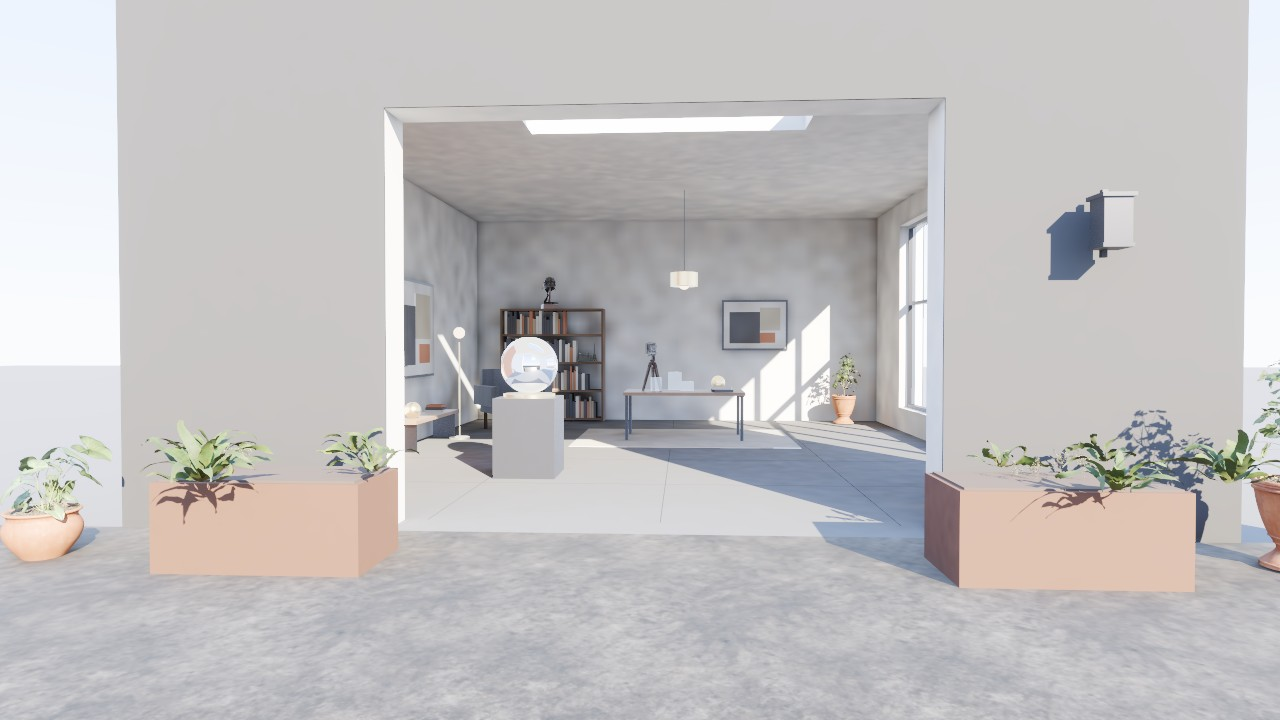
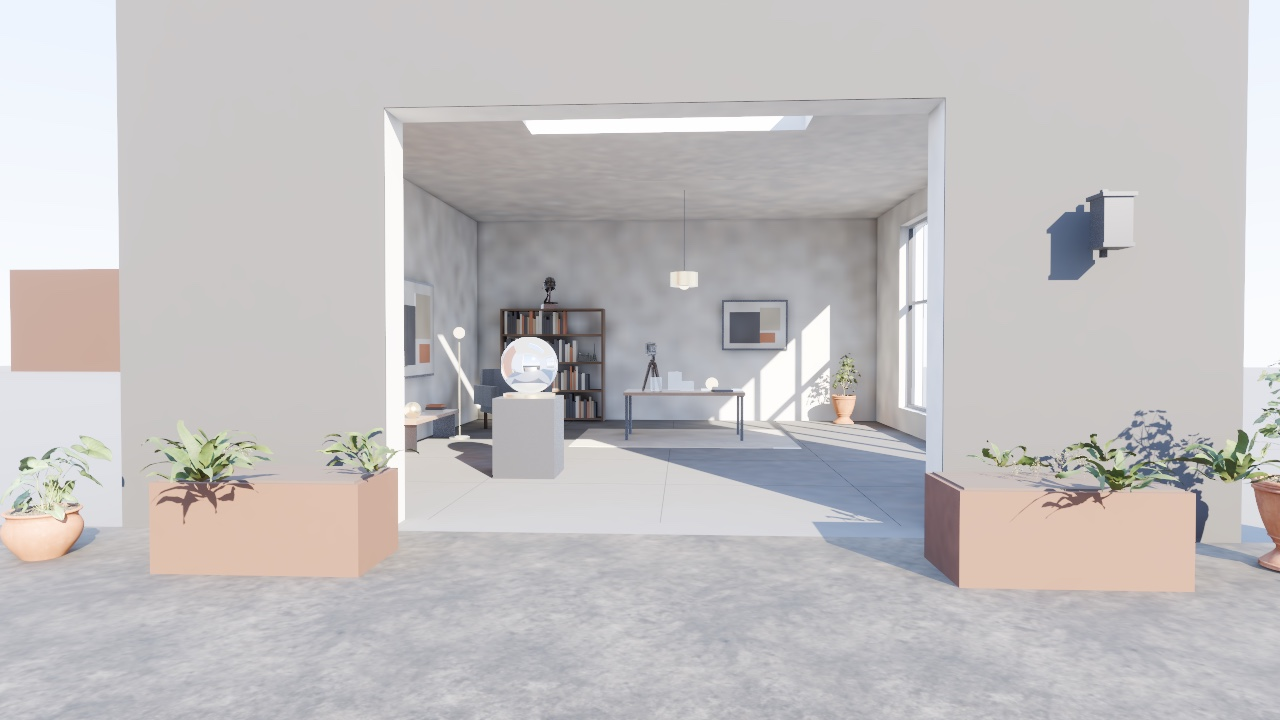
Atelier: two test stills, an emitter in a near-mirror and in chrome, and thin shadows beyond 40 m
glow: the table lamp is now a glowing globe on a polished nickel tray (roughness 0.07) beside a small chrome sphere (0.03), in the table's shade; its light moved to the globe's centre with the globe's radius. shadow: three 14 m masts (0.4, 0.2, 0.1 m across) 8 m in front of a dark boundary wall, 42 to 54 m from a new camera on the gravel west of the courtyard. Both are added to camera_clips.json as one-frame clips; the three comparison clips keep their cameras. Previews re-shot on Ara main f134c989f; FINDINGS 15 and 16 record what the two stills show today.

Changed region(s): [[0.0, 0.3667, 0.0938, 0.5194], [0.5312, 0.5194, 0.5625, 0.55]]

diff --git a/crates/ara-samples/src/build/atelier/kits.rs b/crates/ara-samples/src/build/atelier/kits.rs
@@ -63,6 +63,8 @@ pub fn shell(root: &Path, lock: &Lock) -> Result<String> {
     const GROUND: usize = 6;
     const SAND: usize = 7;
     const JOINT: usize = 8;
+    const BOUNDARY: usize = 9;
+    const MAST: usize = 10;
     let mut k = Kit::new(vec![
         // Mid-grey polished concrete in large tiles, darker than the walls so the sun patches
         // keep their shape instead of clipping; the joints are thin dark strips.
@@ -75,6 +77,11 @@ pub fn shell(root: &Path, lock: &Lock) -> Result<String> {
         Material::flat("dark gravel", [0.2, 0.19, 0.18], 0.95, 0.0),
         Material::flat("charcoal render", [0.065, 0.062, 0.06], 0.9, 0.0),
         Material::flat("floor joint", [0.05, 0.05, 0.05], 0.8, 0.0),
+        // Very dark for the same reason as the render: the exposure is the room's, about
+        // five stops under the sun out here, so a paler wall clips and a shadow on it
+        // cannot be read. A deep rust, the planters' colour at half its value.
+        Material::flat("boundary wall", [0.06, 0.025, 0.014], 0.9, 0.0),
+        Material::flat("mast paint", [0.012, 0.012, 0.013], 0.6, 0.0),
     ]);
     let v = Vec3::new;
     let stone_m = meters(lock, "concrete_floor_02");
@@ -232,11 +239,33 @@ pub fn shell(root: &Path, lock: &Lock) -> Result<String> {
     ] {
         slab(&mut k, SAND, a, b, Vec2::ONE);
     }
+    // The long-shadow test, south-west of the building: three 14 m masts of 0.4, 0.2 and
+    // 0.1 m diameter stand 8 m in front of a 7 m boundary wall that faces the sun. Each
+    // mast's shadow crosses the gravel and climbs the wall 4.6 m to its west, as a stripe
+    // 0.46, 0.23 and 0.12 m wide. From the `shadow` camera the masts are 42 to 44 m away
+    // and their shadows on the wall 50 to 54 m.
+    slab(
+        &mut k,
+        BOUNDARY,
+        v(-46.0, -0.31, -44.5),
+        v(2.0, 6.7, -44.0),
+        Vec2::ONE,
+    );
+    for (x, radius) in [(-22.0, 0.2), (-16.0, 0.1), (-10.0, 0.05)] {
+        post(&mut k, MAST, v(x, -0.31, -36.0), radius, 14.0);
+    }
     k.write(root, lock, "atelier_shell")
 }
 
+/// The table's centre on the floor.
+pub const TABLE: Vec3 = Vec3::new(0.2, 0.0, -6.0);
+/// The table lamp's glowing globe, from `TABLE`: it rests on the nickel tray.
+pub const GLOBE: Vec3 = Vec3::new(0.45, 0.877, -0.03);
+const GLOBE_RADIUS: f32 = 0.1;
+
 /// The furniture and objects of the room: sculpture on its plinth, the table with
-/// glass and brass, the armchair, bookshelf, lamps, rug and the painting.
+/// glass, the glow group (globe, nickel tray, chrome sphere), the armchair, bookshelf,
+/// lamps, rug and the painting.
 pub fn furniture(root: &Path, lock: &Lock) -> Result<String> {
     const OAK: usize = 0;
     const WALNUT: usize = 1;
@@ -250,6 +279,7 @@ pub fn furniture(root: &Path, lock: &Lock) -> Result<String> {
     const RUG: usize = 9;
     const BOOKS: usize = 10;
     const TERRACOTTA_BOOK: usize = 13;
+    const NICKEL: usize = 17;
     let mut k = Kit::new(vec![
         Material::flat("dark oak", [0.2, 0.12, 0.07], 0.5, 0.0),
         Material::flat("walnut", [0.3, 0.18, 0.1], 0.4, 0.0),
@@ -268,6 +298,8 @@ pub fn furniture(root: &Path, lock: &Lock) -> Result<String> {
         Material::flat("canvas white", [0.85, 0.84, 0.8], 0.9, 0.0),
         Material::flat("canvas charcoal", [0.14, 0.14, 0.15], 0.85, 0.0),
         Material::flat("canvas oatmeal", [0.62, 0.55, 0.42], 0.85, 0.0),
+        // A near-mirror: just over the roughness under which a reflection is one ray.
+        Material::flat("polished nickel", [0.72, 0.7, 0.66], 0.07, 1.0),
     ]);
     let v = Vec3::new;
     // Sculpture: marble plinth, brass disc and a chrome sphere in the front sun patch.
@@ -276,7 +308,7 @@ pub fn furniture(root: &Path, lock: &Lock) -> Result<String> {
     post(&mut k, BRASS, s + v(0.0, 0.9, 0.0), 0.3, 0.04);
     k.sphere(CHROME, s + v(0.0, 1.27, 0.0), 0.33, 48, Vec2::ONE);
     // Table (walnut top on steel legs), rug beneath, objects on it.
-    let t = v(0.2, 0.0, -6.0);
+    let t = TABLE;
     block(&mut k, WALNUT, t + v(0.0, 0.74, 0.0), v(1.9, 0.05, 0.95));
     for (dx, dz) in [(-0.9, -0.42), (0.9, -0.42), (-0.9, 0.42), (0.9, 0.42)] {
         post(&mut k, STEEL, t + v(dx, 0.0, dz), 0.025, 0.74);
@@ -295,8 +327,17 @@ pub fn furniture(root: &Path, lock: &Lock) -> Result<String> {
             yaw,
         );
     }
-    post(&mut k, BRASS, t + v(0.55, 0.765, 0.0), 0.11, 0.02);
-    k.sphere(BRASS, t + v(0.55, 0.9, 0.0), 0.11, 32, Vec2::ONE);
+    // The glow group, in the table's shade: a glowing globe (the table lamp) on a polished
+    // nickel tray, with a small chrome sphere beside it. The tray shows the globe in a
+    // near-mirror and the sphere shows it in chrome; the `glow` camera frames the three.
+    block(
+        &mut k,
+        NICKEL,
+        t + v(0.605, 0.771, -0.13),
+        v(0.65, 0.012, 0.54),
+    );
+    k.sphere(BULB, t + GLOBE, GLOBE_RADIUS, 32, Vec2::ONE);
+    k.sphere(CHROME, t + v(0.47, 0.852, -0.29), 0.075, 32, Vec2::ONE);
     // Pendant over the table: cord, brass shade, bulb.
     post(&mut k, STEEL, v(t.x, 2.7, t.z), 0.006, 1.3);
     k.cylinder(

diff --git a/crates/ara-samples/src/build/atelier/mod.rs b/crates/ara-samples/src/build/atelier/mod.rs
@@ -5,10 +5,11 @@
 //! one idling mannequin; six local lights with explicit source sizes.
 //!
 //! Built to cross engines: one fixed exposure, physical light units, a gradient sky
-//! given as numbers, plain metallic-roughness glTF materials, and three camera clips
-//! as poses over time. The numbers live in the tables below and are written once to
-//! `compare/atelier.spec.json` and `compare/camera_clips.json`; the scene is built from
-//! the same tables, so the documents and the scene cannot drift.
+//! given as numbers, plain metallic-roughness glTF materials, and five camera clips
+//! (three comparison clips and two test stills) as poses over time. The numbers live in
+//! the tables below and are written once to `compare/atelier.spec.json` and
+//! `compare/camera_clips.json`; the scene is built from the same tables, so the documents
+//! and the scene cannot drift.
 //! Frame: Y up, right-handed, metres; cameras look along their local -Z (glTF).
 mod kits;
 
@@ -133,11 +134,12 @@ const LAMPS: [Lamp; 6] = [
     Lamp {
         id: "e_lcup",
         name: "Table lamp glow",
-        position: Vec3::new(0.75, 0.98, -6.0),
+        // The centre of the glowing globe on the table (`kits::TABLE + kits::GLOBE`).
+        position: Vec3::new(0.65, 0.877, -6.03),
         target: None,
         color: [1.0, 0.8, 0.55],
         lumens: 120.0,
-        radius: 0.03,
+        radius: 0.1,
         length: 0.0,
         range: 3.0,
         cone: None,
@@ -167,9 +169,11 @@ const fn key(t: f32, position: Vec3, target: Vec3, fov: f32, cut: bool) -> Pose 
     }
 }
 
-/// The three comparison clips: a still, a moving stretch and one hard cut. Positions
-/// interpolate linearly and rotations by slerp between keys, at 30 frames a second.
-const CLIPS: [(&str, &str, &[Pose]); 3] = [
+/// The comparison clips: a still, a moving stretch, one hard cut, and two test stills
+/// (`glow`: an emitter seen in a near-mirror and in chrome; `shadow`: thin shadows more
+/// than 40 m from the camera). Positions interpolate linearly and rotations by slerp
+/// between keys, at 30 frames a second.
+const CLIPS: [(&str, &str, &[Pose]); 5] = [
     (
         "still",
         "Interior from the doorway side: sun patches, sculpture, table, armchair.",
@@ -235,6 +239,28 @@ const CLIPS: [(&str, &str, &[Pose]); 3] = [
             ),
         ],
     ),
+    (
+        "glow",
+        "The table's end, in shade: a glowing globe on a polished nickel tray (roughness 0.07) beside a chrome sphere (0.03).",
+        &[key(
+            0.0,
+            Vec3::new(1.85, 1.3, -5.7),
+            Vec3::new(0.8, 0.8, -6.13),
+            34.0,
+            false,
+        )],
+    ),
+    (
+        "shadow",
+        "From the gravel west of the courtyard: three masts 42 to 44 m away and their shadows on the boundary wall at 50 to 54 m.",
+        &[key(
+            0.0,
+            Vec3::new(-8.5, 1.29, 6.0),
+            Vec3::new(-17.5, 5.0, -44.0),
+            26.0,
+            false,
+        )],
+    ),
 ];
 
 /// A camera looks along -Z: its rotation as a glTF quaternion `[x, y, z, w]`.
@@ -297,7 +323,7 @@ fn spec() -> Value {
     })
 }
 
-/// The three clips as poses over time (plain JSON, 30 fps).
+/// The clips as poses over time (plain JSON, 30 fps).
 fn clips() -> Value {
     json!({
         "handedness": "right", "up": "+Y", "units": "metres", "cameraForward": "-Z (glTF)",

diff --git a/samples/atelier/README.md b/samples/atelier/README.md
@@ -16,7 +16,7 @@ ara-samples build atelier
 ara capture --root samples/atelier --scene levels/atelier.scene --camera e_camstill0 --ticks 90
 ```
 
-Camera entities: `e_camstill0`, `e_camdolly0`/`1`, `e_camcut0`..`3` (one per clip key).
+Camera entities: `e_camstill0`, `e_camdolly0`/`1`, `e_camcut0`..`3`, `e_camglow0`, `e_camshadow0` (one per clip key).
 Export notes (what the Unity/Unreal export carries and cannot): [`compare/EXPORT.md`](compare/EXPORT.md). `preview/` holds the current stills (JPEG, replaced as the scene changes).
 
 ## Conventions
@@ -54,7 +54,9 @@ shadow flag yet (see FINDINGS).
 | Picture light | spot | 1.6, 2.65, -8.7 | 350 | 1.0, 0.9, 0.75 | 0.02 | 3.5 | 30 / 55 | no |
 | Shelf LED strip | point | -2.4, 1.2, -8.65 | 300 | 1.0, 0.93, 0.8 | 0.01 | 3 | | no |
 | Courtyard wall lantern | point | 3.3, 2.4, 0.68 | 600 | 1.0, 0.78, 0.5 | 0.07 | 8 | | no |
-| Table lamp glow | point | 0.75, 0.98, -6.0 | 120 | 1.0, 0.8, 0.55 | 0.03 | 3 | | no |
+| Table lamp glow | point | 0.65, 0.877, -6.03 | 120 | 1.0, 0.8, 0.55 | 0.10 | 3 | | no |
+
+The table lamp is a glowing globe of 0.1 m radius on the table; its light sits at the globe's centre with the globe's radius.
 
 ## Materials (all metallic-roughness)
 
@@ -66,11 +68,14 @@ shadow flag yet (see FINDINGS).
 | Charcoal render (2 cm outer skin, courtyard walls) | 0.065, 0.062, 0.06 | 0.9 | 0 | dark so it keeps modelling outside at the room's exposure |
 | Courtyard stone | concrete_floor_02 x (0.34, 0.33, 0.31) | texture | texture | |
 | Dark gravel (ground) | 0.2, 0.19, 0.18 | 0.95 | 0 | |
+| Boundary wall (48 x 7 m, its sunlit face at z = -44) | 0.06, 0.025, 0.014 | 0.9 | 0 | very dark so a shadow on it reads at the room's exposure |
+| Mast paint (three 14 m masts at z = -36, x = -22, -16, -10; 0.4, 0.2, 0.1 m across) | 0.012, 0.012, 0.013 | 0.6 | 0 | |
 | Weathered steel (planters) | 0.13, 0.055, 0.03 | 0.85 | 0 | repeats the terracotta outside |
 | Black steel (window frame, bench legs, lantern) | 0.05, 0.05, 0.055 | 0.42 | 1 | |
 | Blackened steel (table legs, picture frames, console legs) | 0.07, 0.07, 0.075 | 0.4 | 1 | |
 | Window glass, table glass | tint 0.88-0.9, 0.96, 1.0; alpha 0.14-0.16 | 0.04 | 0 | alpha blend, no texture |
-| Chrome sphere | 0.95 | 0.03 | 1 | mirror-like |
+| Chrome (the sculpture's sphere, 0.33 m radius; a 0.075 m sphere on the table's tray) | 0.95 | 0.03 | 1 | mirror-like |
+| Polished nickel (0.65 x 0.54 m tray on the table) | 0.72, 0.7, 0.66 | 0.07 | 1 | a near-mirror, under the glowing globe |
 | Brushed brass | 0.93, 0.72, 0.36 | 0.28 | 1 | |
 | Walnut (table top, console) | 0.3, 0.18, 0.1 | 0.4 | 0 | |
 | Graphite leather (armchair) | 0.09, 0.09, 0.1 | 0.45 | 0 | |
@@ -97,6 +102,8 @@ between keys, a key with `cut: true` ends its segment.
 | `still` | 1 frame | interior from the doorway's east side toward the south-west corner (3.1, 1.5, -0.6 looking at -1.5, 1.6, -5.0, 46 deg): terracotta panel, chrome sphere, large canvas and console, armchair, table |
 | `dolly` | 8 s | push from the courtyard through the doorway toward the table |
 | `cut` | 6 s | 3 s low courtyard pan, hard cut to the chrome sphere |
+| `glow` | 1 frame | test still at the table's end, in shade (1.85, 1.3, -5.7 looking at 0.8, 0.8, -6.13, 34 deg): the glowing globe on the nickel tray beside the small chrome sphere, so one emitter is seen directly, in a near-mirror (roughness 0.07) and in chrome (0.03) |
+| `shadow` | 1 frame | test still from the gravel west of the courtyard (-8.5, 1.29, 6.0 looking at -17.5, 5.0, -44.0, 26 deg): three masts 42 to 44 m from the camera, whose shadows cross the gravel and climb the boundary wall 50 to 54 m away as stripes 0.46, 0.23 and 0.12 m wide |
 
 ## Engine-side extras (do not export)
 

diff --git a/samples/atelier/FINDINGS.md b/samples/atelier/FINDINGS.md
@@ -108,6 +108,25 @@ No engine code was changed for any of these.
     of those pixels is the shaded back wall and ceiling, which are darker than what the
     floor shows, so the glossy term looks too bright; not checked against a reference
     render or another engine. The floor is authored honed (roughness 0.7).
+15. **A glowing object is dark in its reflections.** The `glow` still (`e_camglow0`,
+    [`preview/glow.jpg`](preview/glow.jpg)) frames the table lamp's globe, an emitter at
+    6000 nits in the table's shade, on a polished nickel tray (roughness 0.07) beside a
+    chrome sphere (0.03). Seen directly the globe is sRGB 249/244/238. Its reflection in
+    the tray is 124/130/139, darker than the tray around it (228/231/237), and in the
+    chrome sphere 141/153/170: a grey ball where a glowing one should be. The chrome
+    sphere's own reflection in the tray is bright (229/229/227), so the reflections
+    themselves work; it is the emitter's light that is missing from them. On Ara main
+    `f134c989f` (Renderlab `9ae2929d`). A renderer fix is on its way; this still is the
+    check for it.
+16. **The sun casts no shadow more than about 40 m from the camera.** The `shadow` still
+    (`e_camshadow0`, [`preview/shadow.jpg`](preview/shadow.jpg)) looks at three 14 m masts
+    42 to 44 m away, 8 m in front of a wall that faces the sun: no shadow on the gravel or
+    the wall. With the camera moved to 25 m from the masts and nothing else changed
+    ([`preview/defects/shadow_from_25m.jpg`](preview/defects/shadow_from_25m.jpg)) the
+    three shadows are on the wall, sRGB 110/89/96 against 203/172/159 beside them, and on
+    the gravel. The same cause as Glint's finding 33 (pylons that cast nothing on the
+    clouds); a renderer fix for the sun's shadow range is on its way and this still is the
+    check for it. Same build as item 15.
 
 ## The look pass of 13 November
 
@@ -128,3 +147,19 @@ a compromise between room and courtyard, and Neutral clipped the sun patches. Wh
   brass bowl and books; the still now looks at that corner at 46 degrees instead of 56.
 - Not fixed: the blotches of item 2 are as visible on white as they were on beige, and the
   sky is nearly white at this exposure.
+
+## Two test stills (13 November, later)
+
+Added for the renderer work on reflections and shadows; the three comparison clips keep
+their cameras.
+
+- **`glow`**: the table lamp was a brass sphere with a light inside it and nothing that
+  glowed. It is now a glowing globe (0.1 m radius, the bulbs' emitter material) resting on
+  a polished nickel tray with a small chrome sphere beside it, all in the table's shade so
+  the globe's brightness is its own. The lamp's light moved 0.14 m to the globe's centre
+  (0.65, 0.877, -6.03) and its source radius is the globe's (0.1, was 0.03); its 120 lm
+  are unchanged.
+- **`shadow`**: three masts and a boundary wall south-west of the building, outside every
+  other camera's view except the first frames of the dolly, where the wall's end shows left
+  of the building. The wall is very dark (0.06, 0.025, 0.014) for the reason the render
+  is: at the room's exposure it still displays as a pale terracotta in sun.

diff --git a/samples/atelier/MATERIALS.md b/samples/atelier/MATERIALS.md
@@ -10,9 +10,11 @@ builder writes and from the third-party models as fetched, on Ara main `9a654106
 | Surface | Roughness | Metalness | Rule |
 |---|---|---|---|
 | Chrome sphere on the plinth (0.33 m radius) | 0.03 | 1 | one-ray mirror |
+| Chrome sphere on the table's tray (0.075 m radius) | 0.03 | 1 | one-ray mirror; 0.26 m from the glowing globe |
+| Polished nickel tray on the table (0.65 x 0.54 m) | 0.07 | 1 | glossy lobe at its sharp end: a near-mirror, under the glowing globe |
 | Window glass (5.6 x 3.2 m pane) | 0.04 | 0 | alpha blend at 0.14 opacity, not transmission |
 | Clear glass (the objects on the table) | 0.04 | 0 | alpha blend at 0.16 opacity, not transmission |
-| Brushed brass (bowl, table lamp, small objects) | 0.28 | 1 | glossy lobe |
+| Brushed brass (bowl, pendant shade, floor lamp, the disc under the sculpture) | 0.28 | 1 | glossy lobe |
 | Walnut (table top, console) | 0.40 | 0 | glossy lobe, in the fade |
 | Blackened steel (table legs, picture frames, console legs) | 0.40 | 1 | glossy lobe, in the fade |
 | Black stone plinth | 0.40 | 0 | glossy lobe, in the fade |
@@ -20,8 +22,8 @@ builder writes and from the third-party models as fetched, on Ara main `9a654106
 | Graphite leather (armchair) | 0.45 | 0 | glossy lobe, near the end of the fade |
 
 Not traced, at or above the cut-off: **the concrete floor (0.70)**, dark oak (0.50), teak
-(0.60), the warm bulbs and the lantern's glass (emitters, 0.60), plaster and render (0.88 to
-0.90), the rug, books and canvases (0.70 to 1.0), gravel, soil, weathered steel, and the
+(0.60), the warm bulbs, the table's glowing globe and the lantern's glass (emitters, 0.60),
+the masts' paint (0.60), plaster, render and the boundary wall (0.88 to 0.90), the rug, books and canvases (0.70 to 1.0), gravel, soil, weathered steel, and the
 mannequin's clay suit (a material graph: roughness 1, metalness 0).
 
 ## Set by a texture
@@ -57,6 +59,9 @@ Per texel from a metallic-roughness texture (factors 1.0), sampled at 256 x 256.
   at 0.36 it was a full glossy lobe on about a third of the still.
 - **The glass is a blended film.** The window pane and the glass on the table are alpha-blended
   at roughness 0.04, not transmission glass with an index of refraction.
+- **An emitter in two reflectors.** The `glow` still frames the table lamp's globe (an
+  emitter, in shade) on the nickel tray beside the small chrome sphere: the same glowing
+  object directly, in a glossy lobe at roughness 0.07 and in a one-ray mirror.
 - **What does reflect** is small on screen: the chrome sphere (a one-ray mirror), brass, the
   steel frames and legs, the walnut table top and console, the plinth and the armchair, most
   of them inside the fade.
